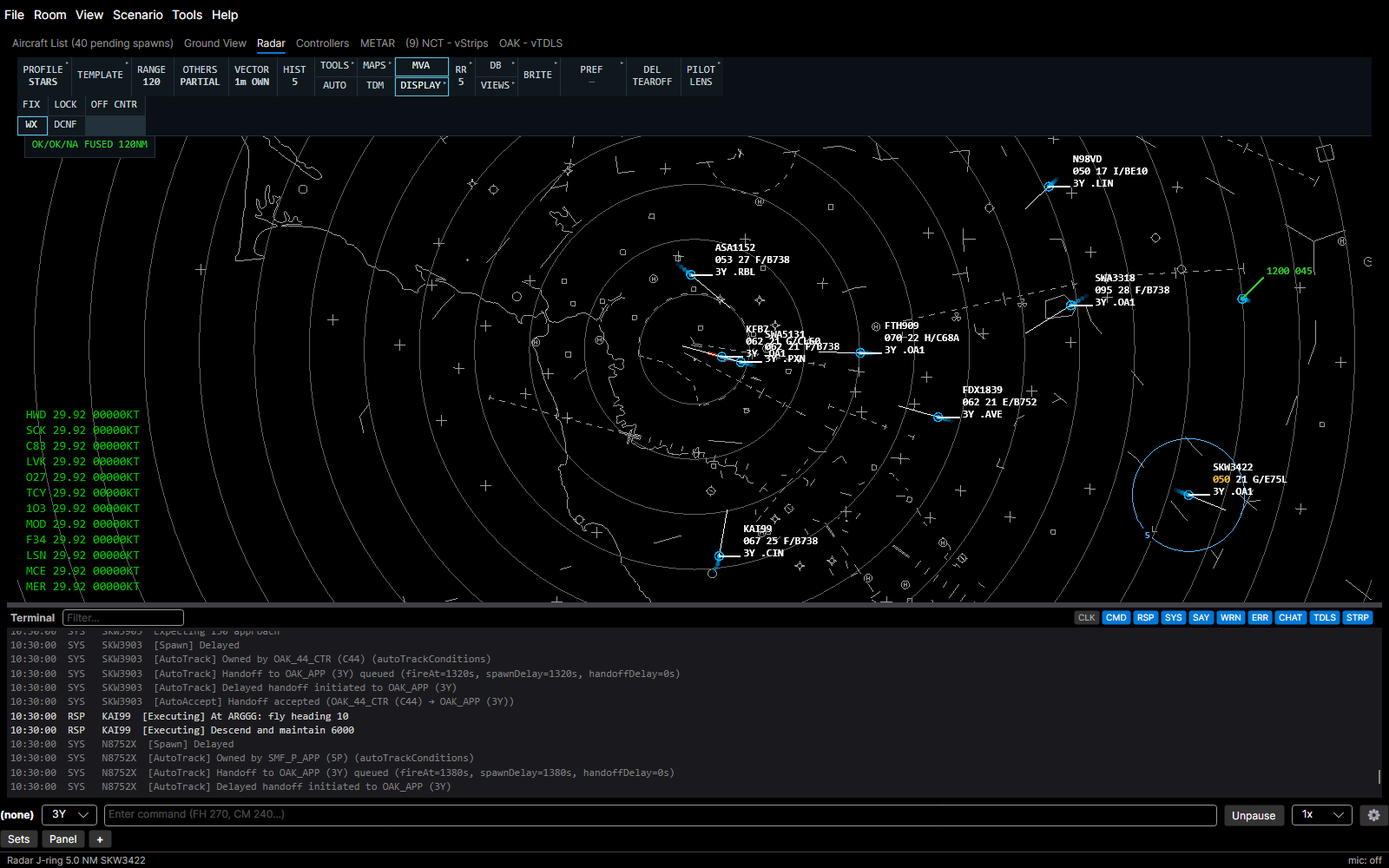
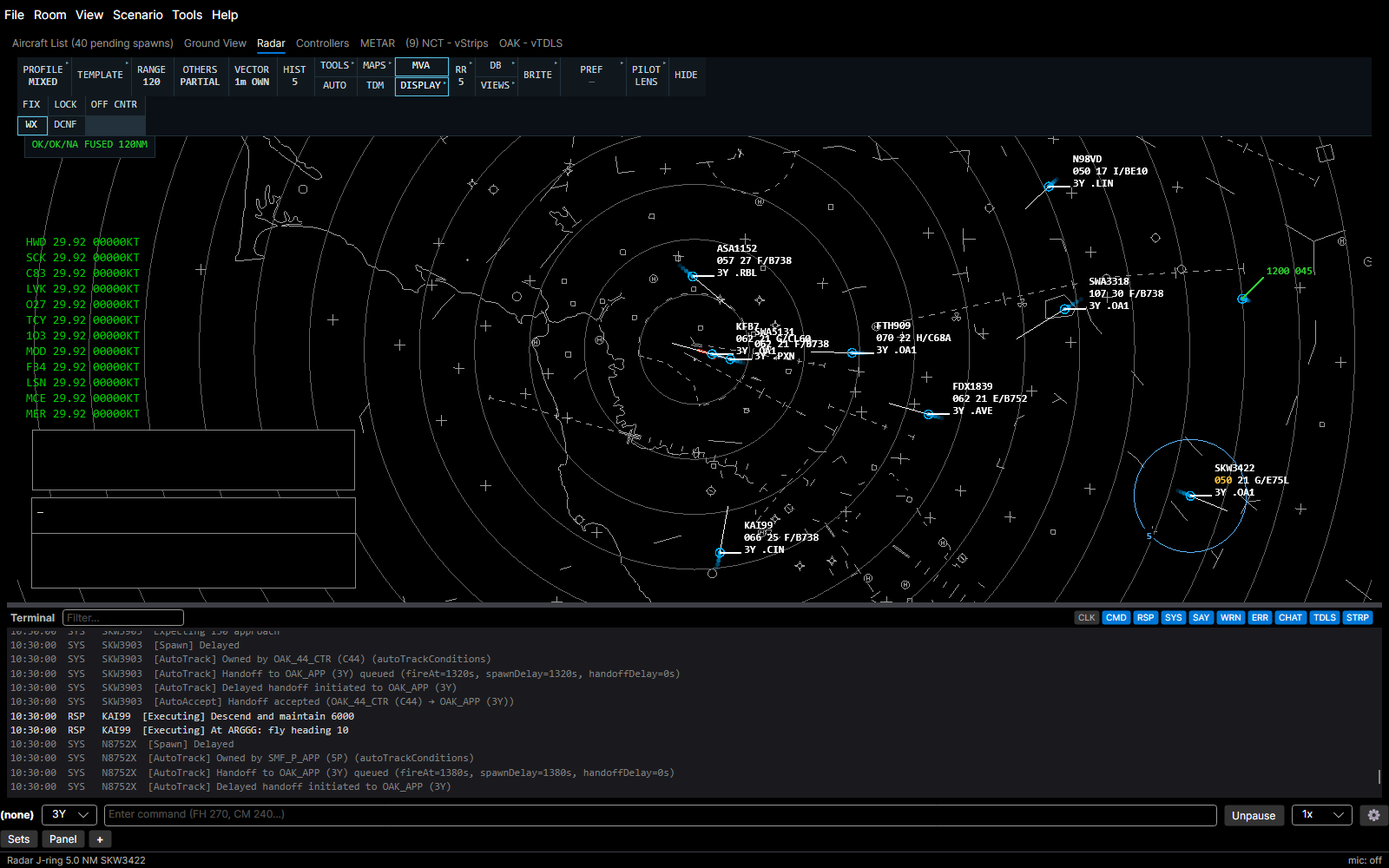
docs: describe the per-profile Radar bars in the user guide
The Radar section covers the STARS DCB, the ERAM Master Toolbar and hiding
the bar, with two new pictures; the Scope decision text, the Task Index and
the release showcase follow.

Refs: YAAT-2889

diff --git a/USER_GUIDE.md b/USER_GUIDE.md
@@ -1134,15 +1134,41 @@ When weather is loaded, wind direction/speed and altimeter setting are displayed
 
 ### Radar
 
-![The Radar with the navy toolbar of tiles, video maps and range rings](docs/user-guide/img/radar-view.png)
+![The Radar under the Mixed profile with the classic navy bar of tiles, video maps and range rings](docs/user-guide/img/radar-view.png)
 
 The Radar shows video maps, target symbols, leader lines and STARS datablocks, or EuroScope tags when EuroScope mode is on.
 
-A navy toolbar of tiles runs across the top of the window, 45 px tall with thin dividers between the tiles. PROFILE, TEMPLATE, RANGE, OTHERS, VECTOR, HIST, PILOT LENS, BRITE and PREF are full-height tiles with the label over a bold value; TOOLS/AUTO, MAPS/TDM, MVA/DISPLAY and DB/VIEWS are pairs of half-height tiles stacked one above the other. PREF reads PREF over the active pref set's name, or over a dim — with none, and is wide enough for a 9-character name, so loading or clearing a set moves no tile. A small **▸** in a tile's top-right corner marks a button that opens a tray, and an active tile has a thin cyan ring. **PROFILE** is its first button and reads **PROFILE MIXED** (or STARS, ERAM). Its tray holds **STARS**, **ERAM** and **MIXED**; a pick switches the Radar's profile, which sets the datablock template and the order of the toolbar buttons and views.
+The bar across the top of the Radar follows the room's Radar profile: under STARS it is the STARS DCB, under ERAM the ERAM Master Toolbar, and under Mixed the classic navy bar of tiles described further down. Picking a profile (PROFILE on any of the three bars, or `.scope profile <stars|eram|mixed>`) swaps the bar at once, and every Radar window follows the room's profile.
 
-The default window is wide enough for the whole bar. When the toolbar is wider than the window, it scrolls sideways: a **‹** tile at its left end and a **›** at its right end appear, each greyed out at its end of the bar, and a press moves the bar three quarters of a window. The mouse wheel does not scroll the bar; over a spinner such as RANGE, VECTOR or HIST it still steps the value. Pressing a button that is partly out of view does not scroll the bar; Tab or an arrow key onto a hidden button does.
+**The STARS DCB** is CRC's black band of green bevelled tiles, on its Main page in CRC's order: RANGE, PLACE CNTR, OFF CNTR, RR, PLACE RR, RR CNTR, MAPS, six map tiles, WX1 to WX6, BRITE, LDR DIR, LDR, CHAR SIZE, MODE, PREF, SITE, SSA FILTER, GI TEXT FILTER and SHIFT, with **HIDE DCB** and **YAAT** together at the bar's right edge. A tile with no YAAT feature behind it is dimmed and does nothing.
 
-The open button's tray stays under the bar at the window's full width. Every tray is a grid of one-line half-height tiles (`LABEL value`, and `ID NAME` for a map) filled column by column in two rows; a tray wider than the window continues in another two-row block underneath. The MAPS tray starts with CLR ALL.
+RANGE and RR latch on a click: the wheel then steps the range or the ring spacing live, a second click accepts and Esc puts the value back. MAPS, BRITE, CHAR SIZE and PREF open their submenu in place of the Main page, and **DONE** or Esc returns to Main. **SHIFT** shows the Aux page (HISTORY, PTL LNTH, PTL OWN, PTL ALL, DWELL ON, TPA/ATPA and CRC's other Aux tiles), and SHIFT there returns to Main.
+
+**YAAT** opens the YAAT page: **PROFILE** (showing the profile), **TEMPLATE**, **OTHERS**, **AUTO**, **TOOLS**, **TDM** over **MVA**, **DISPLAY**, **DB**, **VIEWS**, **PILOT LENS** and **DONE**. Each menu tile opens a page holding the classic bar's tray of the same name, less what CRC's own tiles already cover, and DONE or Esc there returns to the YAAT page; Esc on the YAAT page returns to Main. Every YAAT tile acts exactly as the classic button of the same name described below.
+
+![The Radar under the STARS profile with the STARS DCB's YAAT page open](docs/user-guide/img/radar-bar-stars.png)
+
+**The ERAM Master Toolbar** is CRC's grey toolbar, each button with its gold strip: nine CRC buttons on its top row and seven on the second, then YAAT's **YAAT** button in the second row's ninth cell and **HIDE TOOLBAR** in a tenth column. A menu button opens its menu beside it, drawn in coral with the other toolbar buttons hidden in place, and a second press closes it.
+
+RANGE (its wheel zooms), VECTOR (its wheel steps the vector minutes), BRIGHT, FONT, DB FIELDS, RADAR FILTER, VIEWS, ATC TOOLS, GEOMAP and PREFSET act through the classic bar's own buttons; ALT LIM, CURSOR, CHECK LISTS, DRAW, AB SETTING, COMMAND MENUS and the other buttons with no YAAT feature behind them are dimmed.
+
+The **YAAT** button opens the YAAT menu: **PROFILE** (showing the profile), **TEMPLATE**, **OTHERS** (showing its level), **AUTO**, **TOOLS**, **TDM**, **MVA**, **DISPLAY**, **DB**, **VIEWS** and **PILOT LENS**. Its menus open as submenus and act as the classic buttons described below; opening TOOLS arms the Rings tool and closing it disarms.
+
+![The Radar under the ERAM profile with the Master Toolbar's YAAT menu open](docs/user-guide/img/radar-bar-eram.png)
+
+**Hiding the bar.** HIDE DCB, HIDE TOOLBAR, the classic bar's **HIDE** tile or `.scope bar hide` hides the bar, and the Radar grows up into its row. A SHOW tile in the bar's own style takes its place at the Radar's top-left: **SHOW DCB** under STARS, **SHOW TOOLBAR** under ERAM and **SHOW BAR** under Mixed. A press on it, or `.scope bar show`, brings the bar back. Pref sets keep whether the bar is hidden, so loading a set saved with the bar hidden hides it.
+
+Under Mixed, the classic navy bar of tiles runs across the top of the window, 45 px tall with thin dividers between the tiles. PROFILE, TEMPLATE, RANGE, OTHERS, VECTOR, HIST, PILOT LENS, BRITE and PREF are full-height tiles with the label over a bold value; TOOLS/AUTO, MAPS/TDM, MVA/DISPLAY and DB/VIEWS are pairs of half-height tiles stacked one above the other.
+
+PREF reads PREF over the active pref set's name, or over a dim — with none, and is wide enough for a 9-character name, so loading or clearing a set moves no tile.
+
+A small **▸** in a tile's top-right corner marks a button that opens a tray, and an active tile has a thin cyan ring. **PROFILE** is its first button and reads **PROFILE MIXED** (or STARS, ERAM). Its tray holds **STARS**, **ERAM** and **MIXED**; a pick switches the Radar's profile, which sets the bar, the datablock template and the order of the classic bar's buttons and views.
+
+The default window is wide enough for the whole bar. When the classic bar is wider than the window, it scrolls sideways: a **‹** tile at its left end and a **›** at its right end appear, each greyed out at its end of the bar, and a press moves the bar three quarters of a window.
+
+The mouse wheel does not scroll the bar; over a spinner such as RANGE, VECTOR or HIST it still steps the value. Pressing a button that is partly out of view does not scroll the bar; Tab or an arrow key onto a hidden button does.
+
+On the classic bar, the open button's tray stays under the bar at the window's full width. Every tray is a grid of one-line half-height tiles (`LABEL value`, and `ID NAME` for a map) filled column by column in two rows; a tray wider than the window continues in another two-row block underneath. The MAPS tray starts with CLR ALL.
 
 The profile is picked once per room, when your student position first arrives: ERAM for an ERAM sector, STARS for a TRACON or tower (ATCT) position, otherwise Mixed. Changing position later (`AS`) keeps it. A profile you pick by hand is remembered for that kind of student position (GND, TWR, APP, CTR) and wins in later rooms of that kind. A facility's saved Radar state keeps its own template.
 
@@ -1162,7 +1188,7 @@ The **RANGE** button shows the range in nautical miles (**RANGE 40**). Roll the 
 
 **TOOLS** sits after HIST. Opening its tray arms the Rings tool, with the kind the zoom band names (J-ring, or DRI 5 for a `dri` band); the tray holds **J-RING**, **CONE**, **DRI 5** and **DRI 3**, lit while armed, and a **SIZE** spinner (3.0 at first; roll the wheel to step it 1.0 to 9.9 in tenths, then 10 to 30 whole). Press a kind to arm it, or the lit one again to disarm. Esc, closing the tray and opening another tray also disarm. While armed, a left click on a track places that kind on it, resizes it when the track already has it at another size, or removes it when the size is the same, and does not select the aircraft. A J-ring is a circle of the SIZE radius in NM centred on the track, labelled opposite its leader. A cone runs SIZE NM along the track's ground track, 2 degrees either side, labelled on its middle. DRI 5 is a 5 NM circle; DRI 3 is a 3 NM circle drawn as four arcs with gaps at north, east, south and west, and a track above FL230 refuses it with "DRI 3 needs FL230 or below". A track carries one J-ring, one cone and one DRI. With **ATPA DIST** on, a track's ATPA cone draws in blue (monitor), yellow (warning) or orange (alert) and hides that track's cone from the tool; its J-ring still draws. Rings are this Radar's own: they are never saved or sent to the server, and they go when their aircraft is deleted and on a scenario unload, restart or rewind.
 
-By default the bar reads **PROFILE**, **TEMPLATE**, **RANGE**, **OTHERS**, **VECTOR**, **HIST**, **TOOLS**, **AUTO**, **MAPS**, **TDM**, **MVA**, **DISPLAY**, **RR**, **DB**, **VIEWS**, **PILOT LENS**, **BRITE** and **PREF**.
+By default the classic bar reads **PROFILE**, **TEMPLATE**, **RANGE**, **OTHERS**, **VECTOR**, **HIST**, **TOOLS**, **AUTO**, **MAPS**, **TDM**, **MVA**, **DISPLAY**, **RR**, **DB**, **VIEWS**, **PILOT LENS**, **BRITE**, **PREF** and **HIDE**.
 
 **TDM** is top-down mode, a toggle with no tray that is lit while it is on; a press closes any open tray and flips it. With TDM on the Radar draws aircraft on the ground and airborne ones below the display floor, with the vector, history and rings, and the video maps marked TDM-only (such as airport diagrams), even when their MAPS toggle is on. On the STARS and ERAM templates (and Mixed where it resolves to them) an aircraft on the ground gets a two-line ground-target block at every zoom level and on hover: line 1 the aircraft ID, line 2 the destination when it has a flight plan (`KATL A321`), else the beacon code (`4521 A321`), else just the type; the type is the one the pilot connected with, not the filed one. Airborne aircraft below the floor and every EuroScope tag keep the ordinary block. With TDM off the aircraft are gone from the drawing and cannot be clicked, and TDM-only maps are not drawn even with their toggle on. TDM is kept in the Radar's saved state and in pref sets; a state saved without it opens with TDM off. In the Radar (docked with focus in it, or popped out) **Ctrl+Shift+T** (**Cmd+Shift+T** on macOS) flips TDM the same way and echoes it; plain Ctrl+T does nothing there, so it never clashes with take control.
 

diff --git a/docs/radar-rendering.md b/docs/radar-rendering.md
@@ -116,7 +116,7 @@ All paths are under `src/Yaat.Client/`.
 | `Views/Scope/ScopeMapToolsRenderer.cs` | Draws under the tracks the range ring (gray, RINGS brightness; `RingRadii`), then at MAP B brightness the FIX overlay (gray crosses, larger teal crosses and labels for the programmed fixes, a white label on the hovered fix) and the pinned markers (yellow diamonds with their names), and, over every other layer, the weather lines (green mono growing upward; `WeatherBaselines`) and the MVA hover label |
 | `Views/Scope/ScopeRenderer.MapTools.cs` | Partial of `ScopeRenderer`: the `DrawMapToolsUnder` and `DrawMapToolsOverlay` slots and its disposal |
 | `Views/Scope/ScopeView.MapTools.cs` | Partial of `ScopeView`: feeds Control key events to the canvas, applies LOCK to `ScopeCanvas.IsPanZoomEnabled`, and syncs the range ring, the FIX overlay, the pinned markers, PLACE RR and the weather lines (their inset above the ERAM entry boxes, `WeatherBottomInset`) to the canvas |
-| `Views/Scope/Toolbar/` | The Scope's navy toolbar (replaced the Template menu) |
+| `Views/Scope/Toolbar/` | The Scope's bars, picked by the profile (`ScopeBarKind`): the classic navy bar under Mixed (replaced the Template menu), the STARS DCB (`Dcb/`) and the ERAM Master Toolbar (`Eram/`) |
 | `Views/Scope/Toolbar/ScopeBarKind.cs` | `ScopeBarKind` (Classic, Stars, Eram: which bar a Scope shows) and `ScopeBarPicker.KindFor(ScopeProfileKind)` (STARS profile: Stars, ERAM: Eram, Mixed: Classic); `ScopeHost` shows `StarsDcbBar` for Stars, `EramBar` for Eram and `ScopeToolbar` for Classic |
 | `Views/Scope/Toolbar/ScopeToolbarButtons.cs` | The data-driven button model: ids, labels, kinds (Command, Toggle, Menu, Spinner); PROFILE (its tray: STARS, ERAM, MIXED), TEMPLATE, RANGE, OTHERS, VECTOR ("VECTOR 1m OWN"), HIST ("HIST 5"), TOOLS (its tray: J-RING, CONE, DRI 5 and DRI 3 toggles, lit while armed, and the SIZE spinner), AUTO, MAPS (CLR ALL, then a toggle per video map; the tray's children come from `ScopeViewModel.TrayChildren`), TDM (a bar-level toggle, `TdmCommand`), MVA (a bar-level toggle, `MvaCommandStem`, lit by `ScopeViewModel.IsMapToolToggleOn`), DISPLAY (its tray: FIX, a toggle on `FixCommandStem`, WX, a toggle on `WxCommandStem`, LOCK, a toggle on `LockCommandStem`, DCNF, a button on `DcnfCommand` that steps the mode and keeps the tray open, its value S or F, lit while on, and OFF CNTR, a command on `CenterCommand` lit by `ScopeViewModel.IsOffCenter`), RR (a full tile, `ScopeViewModel.MapToolValue` showing the size or OFF; its tray: SHOW, a toggle on `RrCommandStem`, PLACE RR on `RrPlaceCommand` lit while armed, the SIZE spinner on `RrSizeCommand` and RR CNTR on `RrCenterCommand`), DB (toggles 4TH LINE, DWELL, ATPA DIST, ALERT CONES, MONITOR CONES and CA RING, and the CHAR spinner), VIEWS (its tray toggles SSA, LA/CA/MCI, RPO QUEUE and CRR), PILOT LENS (`ScopeButtonId.Lens`, a full tile; its tray toggles `LensOn`, `LensPath`, `LensQueue` and `LensCheckIn`, each lit by `ScopeViewModel.IsLensToggleOn`; the tile is lit while the lens is on or its tray is open), BRITE (its tray holds a spinner per brightness group), PREF (its tray: a button per pref set, then SAVE, SAVE AS, RENAME, DELETE) and HIDE (the last tile: a full navy tile that runs `.scope bar hide`, with `BarShow`, the SHOW BAR tile, tray-only) today, in that bar order; a button's accessible name is its label plus value (`RANGE 40`); every button carries its own dot command (`ScopeButton.Command`) |
 | `Views/Scope/Toolbar/ScopeButtonControl.cs` | The reusable toolbar button: the tile: the Button plus the corner "▸" mark of a menu; the bar and the trays build it |
@@ -141,7 +141,7 @@ All paths are under `src/Yaat.Client/`.
 | `Views/Scope/Toolbar/Eram/EramMenus.cs` | `EramMenus` and `EramMenuButton` (row, column, type, optional labelled lines and key): each Master Toolbar menu as a table of buttons at CRC's cells (`AtcTools`, `Brightness`, `MapBrightness` with MAP A and MAP B, `FontSize`, `DbFields`, `Views`, `RadarFilter`, via `Fixed`), plus `Geomap` (one toggle per map, STARS id over short name, keyed by the STARS id) and `Prefset` (a button per pref set, then SAVE, SAVE AS, RENAME, DELETE), which follow the Scope; the YAAT menu and its submenus PROFILE (STARS, ERAM, MIXED), TEMPLATE, TOOLS, DISPLAY, DB, VIEWS and PILOT LENS, leaving out what ERAM's own menus already hold (LA/CA/MCI, CRR, 4TH LINE, CHAR, WX) |
 | `Views/Scope/Toolbar/Eram/EramToolbarButton.cs` | One toolbar button, of the Master Toolbar or of a menu: gold strip (drawn, inert), then a pick area of two text lines in its kind's fill; a left or middle press raises `Invoked` and the wheel `Wheeled`, an unbuilt button is dimmed and takes no input, and a suppressed one keeps its space but draws nothing |
 | `Views/Scope/Toolbar/Eram/EramMasterToolbar.axaml(.cs)` | The bar: the move-down pick area, then the table of `EramToolbarButton`s (`PickAreaWidth` is the pick area's width); events `Menu`, `Toggle`, `Command`, `IncDec`, `Wheel`; `OpenMenu` opens a menu from `MenuSource`, drawing its button BurntCoral, hanging its buttons to its right in a 2 DIP BurntCoral outline and hiding every other Master Toolbar button in place; `OpenSubmenu` does the same inside a menu, and a submenu draws and takes clicks above its menu's later columns (`Expand` raises the opener's column) |
-| `Views/Scope/Toolbar/ScopeToolbar.axaml(.cs)` | The 45 px bar of unpadded tiles with 1 px dividers (full tiles for PROFILE, TEMPLATE, RANGE, OTHERS, VECTOR, HIST, BRITE and PREF; TOOLS/AUTO, MAPS/TDM, MVA/DISPLAY and DB/VIEWS stacked in 22 px half tiles; PREF counts as showing a value with or without a pref set, so it is always a full tile (a dim — without a set) whose `MinWidth` reserves nine bold characters, and loading or clearing a set moves no tile; the bar is laid out again whenever the pairing changes; a sideways scroller that never takes the wheel: a ‹ and a › tile, 45 px tall, show only while the bar is wider than the window, disabled at the matching end, each moving it three quarters of a viewport; pressing a part-hidden button does not scroll, Tab or arrow focus does; the tray stays outside the scroller at full window width) and every menu's tray (a grid of 22 px one-line tiles filled column by column in two rows, a further two-row block underneath when wider than the window; a toggle keeps the tray open; the tray overlays the scope); the wheel over RANGE, CHAR or a BRITE spinner steps it (`StepSpinner`); every action routes through the `.scope` / `.view` dot commands (`ScopeViewModel.RunCommand`) |
+| `Views/Scope/Toolbar/ScopeToolbar.axaml(.cs)` | The classic bar, shown under the Mixed profile: the 45 px bar of unpadded tiles with 1 px dividers (full tiles for PROFILE, TEMPLATE, RANGE, OTHERS, VECTOR, HIST, BRITE and PREF; TOOLS/AUTO, MAPS/TDM, MVA/DISPLAY and DB/VIEWS stacked in 22 px half tiles; PREF counts as showing a value with or without a pref set, so it is always a full tile (a dim — without a set) whose `MinWidth` reserves nine bold characters, and loading or clearing a set moves no tile; the bar is laid out again whenever the pairing changes; a sideways scroller that never takes the wheel: a ‹ and a › tile, 45 px tall, show only while the bar is wider than the window, disabled at the matching end, each moving it three quarters of a viewport; pressing a part-hidden button does not scroll, Tab or arrow focus does; the tray stays outside the scroller at full window width) and every menu's tray (a grid of 22 px one-line tiles filled column by column in two rows, a further two-row block underneath when wider than the window; a toggle keeps the tray open; the tray overlays the scope); the wheel over RANGE, CHAR or a BRITE spinner steps it (`StepSpinner`); every action routes through the `.scope` / `.view` dot commands (`ScopeViewModel.RunCommand`) |
 | `Views/Scope/Dock/` | The views dock: a 360 px column on the right of the Radar window under the bar, hidden while no open view is docked |
 | `Views/Scope/Dock/ScopeDock.axaml(.cs)` | The dock column: the docked views' cards keyed by view name (SSA, LA/CA/MCI, RPO QUEUE, then CRR) |
 | `Views/Scope/Dock/ScopeViewCard.axaml(.cs)` | One view's card, in the dock or floating on the scope: the title (a press starts a move), a close button (`.view {name} off`), the dock button `▸` while floating (`.view {name} dock`), and the SSA, LA/CA/MCI, RPO QUEUE and CRR body templates (a row of RPO QUEUE is a button selecting its aircraft; a CRR row takes no click) |

diff --git a/docs/architecture.md b/docs/architecture.md
@@ -308,7 +308,8 @@ Per-file detail lives in each subsystem doc's `## File map`, listed under Deep d
 | **Add a hover/dwell or block-level behaviour to the Radar (levels, dwell emphasis, dwell lock)** | [plans/yaat-scope/README.md](plans/yaat-scope/README.md) (Decisions, step 2c) → `src/Yaat.Client/Views/Scope/ScopeCanvas.cs` (pointer input, `CurrentFrame`) → `ScopeRenderer.cs` (`ScopeFrame.Build`, `LevelFor`, `HoverAt`, `DrawTrack`; `EramDwellLock.cs`) → `TrackPresenter.cs` (`Present`, field sets per level) → `ScopeTemplates.cs` / `DatablockTemplate.cs` (`LinesAt`) → `tests/Yaat.Client.Tests/Views/Scope/` (`ScopeBlockLevelTests.cs`, `ScopeDwellTests.cs`), `tests/Yaat.Client.UI.Tests/Views/` (`ScopeCanvasHoverTests.cs`) |
 | **Add or change a Radar toolbar button or `.scope` command** | [plans/yaat-scope/README.md](plans/yaat-scope/README.md) (Decisions, "Step 3 toolbar, dock and pref sets") and [plans/canvases/yaat-scope-design/](plans/canvases/yaat-scope-design/) (boards 01 and 04) → `src/Yaat.Client/Views/Scope/Toolbar/ScopeToolbarButtons.cs` (the button model) → `ScopeToolbar.axaml(.cs)` → `ViewModels/ScopeViewModel.Toolbar.cs` (BRITE, MAPS and DB: `ViewModels/ScopeViewModel.Display.cs`, `ViewModels/ScopeMapToggle.cs` and `Views/Scope/ScopeBrightness.cs`, brightness applied in `ScopeRenderer.DrawTrack`; the DB settings reach `ScopeCanvas.DbSettingsProperty`, read by `BuildFrame` and `Hover`) → `ViewModels/MainViewModel.Scope.cs` (`TryHandleScopeCommand`; a new top-level verb also goes in `BuiltInDotCommands`; any new verb goes in `COMMANDS.md` and `command-cheatsheet.json`) → `tests/Yaat.Client.Tests/Views/Scope/ScopeToolbarButtonsTests.cs`, `tests/Yaat.Client.UI.Tests/Views/` (`ScopeToolbarTests.cs`, `ScopeCommandTests.cs`) |
 | **Add or change a Scope toolbar button, view card or the views dock** | [plans/yaat-scope/README.md](plans/yaat-scope/README.md) (Decisions, "Step 3 toolbar, dock and pref sets") → `src/Yaat.Client/Views/Scope/Toolbar/ScopeToolbarButtons.cs` (the model) → `ScopeToolbar.axaml(.cs)` and `ScopeButtonControl.cs` (render) → `ViewModels/ScopeViewModel.Toolbar.cs` → `ViewModels/ScopeViewModel.Views.cs`, `Views/Scope/Dock/ScopeDock.axaml(.cs)` and `ScopeViewCard.axaml(.cs)` (the views) → `Views/Scope/ScopeWindow.axaml`, `ScopeView.axaml` and `ScopeTearoffLayer.cs` (layout, overlay) → `ViewModels/MainViewModel.Scope.cs` and `MainViewModel.Views.cs` (verbs, echo) → tests `tests/Yaat.Client.UI.Tests/Views/` (`ScopeToolbarTests.cs`, `ScopeViewTearoffTests.cs`, `ScopeDockTests.cs`, `ScopeViewCommandTests.cs`, `ScopeCanvasClickTests.cs`) |
-| **Change the Scope toolbar's layout (bar, tray, overflow scroll)** | [radar-rendering.md](radar-rendering.md) (Radar engine) → `src/Yaat.Client/Views/Scope/Toolbar/ScopeToolbar.axaml` and `ScopeToolbar.axaml.cs` (the bar's scroller and chevrons, the tray) → `ScopeButtonControl.cs` and `ScopeToolbarStyles.axaml` (the button look) → `ViewModels/ScopeViewModel.Toolbar.cs` (which buttons are full or half tiles) → [plans/canvases/scope-dcb-compact/index.html](plans/canvases/scope-dcb-compact/index.html) (the tile spec) → tests `tests/Yaat.Client.UI.Tests/Views/` (`ScopeToolbarTests.cs`, `ScopeViewTearoffTests.cs`, `ScopePrefMenuTests.cs`) |
+| **Change the classic (Mixed) Scope bar's layout (bar, tray, overflow scroll)** | [radar-rendering.md](radar-rendering.md) (Radar engine) → `src/Yaat.Client/Views/Scope/Toolbar/ScopeToolbar.axaml` and `ScopeToolbar.axaml.cs` (the bar's scroller and chevrons, the tray) → `ScopeButtonControl.cs` and `ScopeToolbarStyles.axaml` (the button look) → `ViewModels/ScopeViewModel.Toolbar.cs` (which buttons are full or half tiles) → [plans/canvases/scope-dcb-compact/index.html](plans/canvases/scope-dcb-compact/index.html) (the tile spec) → tests `tests/Yaat.Client.UI.Tests/Views/` (`ScopeToolbarTests.cs`, `ScopeViewTearoffTests.cs`, `ScopePrefMenuTests.cs`) |
+| **Change the STARS DCB or the ERAM Master Toolbar (a tile, a page, a menu, a YAAT entry, hiding the bar)** | [radar-rendering.md](radar-rendering.md) (Radar engine, the `Views/Scope/Toolbar/` rows) → `src/Yaat.Client/Views/Scope/Toolbar/ScopeBarKind.cs` (which bar a profile shows) → `Views/Scope/ScopeHost.axaml.cs` (the bar slot, the SHOW tiles) → `Toolbar/Dcb/StarsMainPage.cs`, `Dcb/StarsSubmenus.cs`, `Dcb/StarsDcbBar.cs` → `Toolbar/Eram/EramMasterLayout.cs`, `Eram/EramMenus.cs`, `Eram/EramBar.cs` → `ViewModels/ScopeViewModel.Toolbar.cs` (`SetBarHidden`) → `ViewModels/MainViewModel.Scope.cs` (`.scope bar`, `.scope profile`) → the pictures: yaat-server `tools/Yaat.GuideCapture` scenes `radar-bar-stars`, `radar-bar-eram`, `radar-view`, `whats-new-radar-toolbar` → tests `tests/Yaat.Client.Tests/Views/Scope/` (`ScopeBarPickerTests.cs`, `Toolbar/StarsMainPageTests.cs`, `Toolbar/StarsSubmenusTests.cs`, `Toolbar/EramMasterLayoutTests.cs`, `Toolbar/EramMenusTests.cs`), `tests/Yaat.Client.UI.Tests/Views/` (`StarsDcbBarTests.cs`, `StarsDcbSubmenuTests.cs`, `StarsDcbAuxTests.cs`, `EramBarTests.cs`, `EramMasterToolbarTests.cs`, `ScopeHostTests.cs`, `ScopeProfilePickTests.cs`) |
 | **Change the Scope heading vector (AHDG drag/click, turn arc preview)** | [radar-rendering.md](radar-rendering.md) → `src/Yaat.Client/Views/Scope/ScopeHeadingVector.cs` (state machine, threshold, turn and geometry) → `ScopeCanvas.HeadingVector.cs` (press/move/release hooks, confirm event) → `ScopeOverlays.HeadingVector.cs` (overlay record) → `ScopeHeadingVectorRenderer.cs` (drawing) → `src/Yaat.Sim/TurnShape.cs` → tests `ScopeHeadingVectorTests.cs`, `ScopeHeadingVectorGestureTests.cs` |
 | **Change what a EuroScope tag field click opens** | [radar-rendering.md](radar-rendering.md) (Field menus) → `src/Yaat.Client/Views/Scope/TrackPresenter.cs` (`EuroScopeActionFor`) → `src/Yaat.Client/Views/Scope/ScopeView.axaml.cs` (`OnFieldClicked`, `OpenFieldSurface`, `OpenFieldMenu`) → `src/Yaat.Client/Views/Scope/EuroScopeFlyouts/` → `src/Yaat.Client/Views/FlyoutAppearance.cs` → tests `ScopeFieldMenuTests.cs`, `EuroScopeSpeedFlyoutTests.cs` |
 | **Change what the Radar saves (pref sets, its saved state)** | [plans/yaat-scope/README.md](plans/yaat-scope/README.md) (Decisions, "Step 3 toolbar, dock and pref sets") → `src/Yaat.Client/Views/Scope/Prefs/ScopePrefSet.cs` (the record) → `ScopePrefSetStore.cs` (the files) → `ViewModels/ScopeViewModel.PrefSets.cs` (capture, apply, saved state) → `ViewModels/MainViewModel.ScopeHosting.cs` (`MigrateRadarSettings`: the old Radar per-scenario settings copied into a scenario's saved state at scenario load, called from `ApplyScenarioBootstrap`, which also saves and restores each Scope's per-scenario view) → `ViewModels/MainViewModel.Scope.cs` (`.scope pref`; a new verb also goes in `COMMANDS.md` and `command-cheatsheet.json`) → `ViewModels/ScopeViewModel.Toolbar.cs` (the PREF tray) → tests `tests/Yaat.Client.Tests/Views/Scope/ScopePrefSetStoreTests.cs`, `tests/Yaat.Client.UI.Tests/Views/` (`ScopePrefCommandTests.cs`, `ScopePrefMenuTests.cs`, `ScopeSavedStateTests.cs`) |

diff --git a/docs/plans/yaat-scope/README.md b/docs/plans/yaat-scope/README.md
@@ -44,7 +44,9 @@ An instructor radar that takes the strongest parts of STARS and ERAM without cop
 - **Layout cost.** Each block's layout is cached and re-laid out only when a field changes.
 - **Step 3 views.** The dock ships with the SSA and the Conflict alert list (LA/CA/MCI); the Tab list (CRC's FLIGHT PLAN list) and the other CRC lists are not part of step 3.
 - **Step 3 toolbar, dock and pref sets** (orchestrator decisions from the canvas's boards 01, 04 and 06 and from CRC, open to the owner):
-  - The toolbar is one full-width row of buttons in one dark navy theme with a cyan active state, for every template. An opened menu is a tray below the bar, and the main row stays visible. A button shows once its behaviour exists; later steps' buttons are absent, never disabled. There is no show/hide hotkey.
+  - The bar follows the room's profile, not the template: CRC's STARS DCB (a black band of green bevelled tiles) under STARS, CRC's ERAM Master Toolbar under ERAM, and under Mixed the classic bar, one full-width row of buttons in one dark navy theme with a cyan active state. YAAT's own controls sit on the DCB's YAAT page and in the Master Toolbar's YAAT menu, and a CRC tile or button with no YAAT feature is dimmed.
+
+    On the classic bar an opened menu is a tray below the bar, and the main row stays visible; a button shows once its behaviour exists, and later steps' buttons are absent, never disabled. There is no show/hide hotkey: each bar's HIDE button and `.scope bar hide|show` hide it to a SHOW tile and bring it back.
   - The dock is a fixed-width right-hand column that hides when no view is open in it. The SSA is a view, placed by default on the scope at its top-left (torn off), as the canvas draws it.
   - Views float as cards, anchored to the nearest corner as CRC's ERAM tear-offs are. A view moves by a left press on its card title, placed by a click and cancelled by Esc; `.view <ssa|ca|rpoq> tear|dock` are the verbs. Toolbar buttons do not tear off.
   - BRITE ships a group per layer the Scope draws (MAP A, MAP B, TARGETS, FDB, LINE 4, ALERTS, DWELL), scaling colour by value/100 as CRC does; defaults keep today's look (100, MAP B 60, LINE 4 0, DWELL 20), and DWELL lifts a dwelled track toward full brightness by CRC's rule. The SSA draws CRC's UTC time, the primary airport's altimeter, the tracking status and the range; fields whose data YAAT lacks are left out.
@@ -56,7 +58,7 @@ An instructor radar that takes the strongest parts of STARS and ERAM without cop
 - **`DatablockTemplate` engine** (new): lays the fields out into lines and returns one `FieldRect` list that both drawing and hit-testing use. It carries the STARS, ERAM, Mixed and EuroScope templates, which ends the draw-vs-hit-test duplication described in `docs/radar-rendering.md`.
 - **Render thread**: the render snapshot copies the rects; the render thread reads no StyledProperty. Layers draw back to front, each with its own brightness group: maps A/B, weather, rings, routes/tools, history, vectors, targets, blocks, alerts, pilot lens.
 - **Actions**: a field action produces command text sent through `SendCommandAsync`, so a menu can do nothing the command line can't. Toolbar and view actions are dot commands (`.scope …`, `.view …`) and echo in the feedback line.
-- **Profiles**: STARS, ERAM and Mixed ship as JSON files under `YaatPaths`; a pref set is the same shape holding one user's values. The shape carries the toolbar's button ids (`toolbar`) and the open views (`views`).
+- **Profiles**: STARS, ERAM and Mixed ship as JSON files under `YaatPaths`; a pref set is the same shape holding one user's values. The shape carries the classic bar's button ids (`toolbar`, in `mixed.json` only, since the STARS and ERAM bars are fixed) and the open views (`views`).
 
 ## Build order
 

diff --git a/docs/releases/whats-new-next.md b/docs/releases/whats-new-next.md
@@ -17,3 +17,13 @@ View › Bars › Rundowns… opens a Rundowns window with the same lists, one s
 ![The RUNDOWN list on the Radar with two RD entries on the POAK list and a third held with the text EXPECT 28R](img/whats-new-rundown-list.png)
 
 ![The Rundowns window with the OAK DEP section holding the same three entries and the Hold for release section with OAK armed](img/whats-new-rundowns-window.png)
+
+## The Radar bar follows the profile
+
+The bar across the top of the Radar now matches the room's Radar profile. Under STARS it is CRC's STARS DCB, a black band of green bevelled tiles with its Main page, submenus and Aux page (SHIFT); under ERAM it is CRC's ERAM Master Toolbar with its menus; under Mixed it is the classic navy bar.
+
+YAAT's own controls (profile, template, others, tools, TDM, MVA, display, DB, views and the pilot lens) are on the DCB's YAAT page and in the Master Toolbar's YAAT menu. Any bar hides to a small SHOW tile with its HIDE button or `.scope bar hide`, and `.scope bar show` brings it back.
+
+![The Radar under the STARS profile with the STARS DCB's YAAT page open](../user-guide/img/radar-bar-stars.png)
+
+![The Radar under the ERAM profile with the Master Toolbar's YAAT menu open](../user-guide/img/radar-bar-eram.png)
